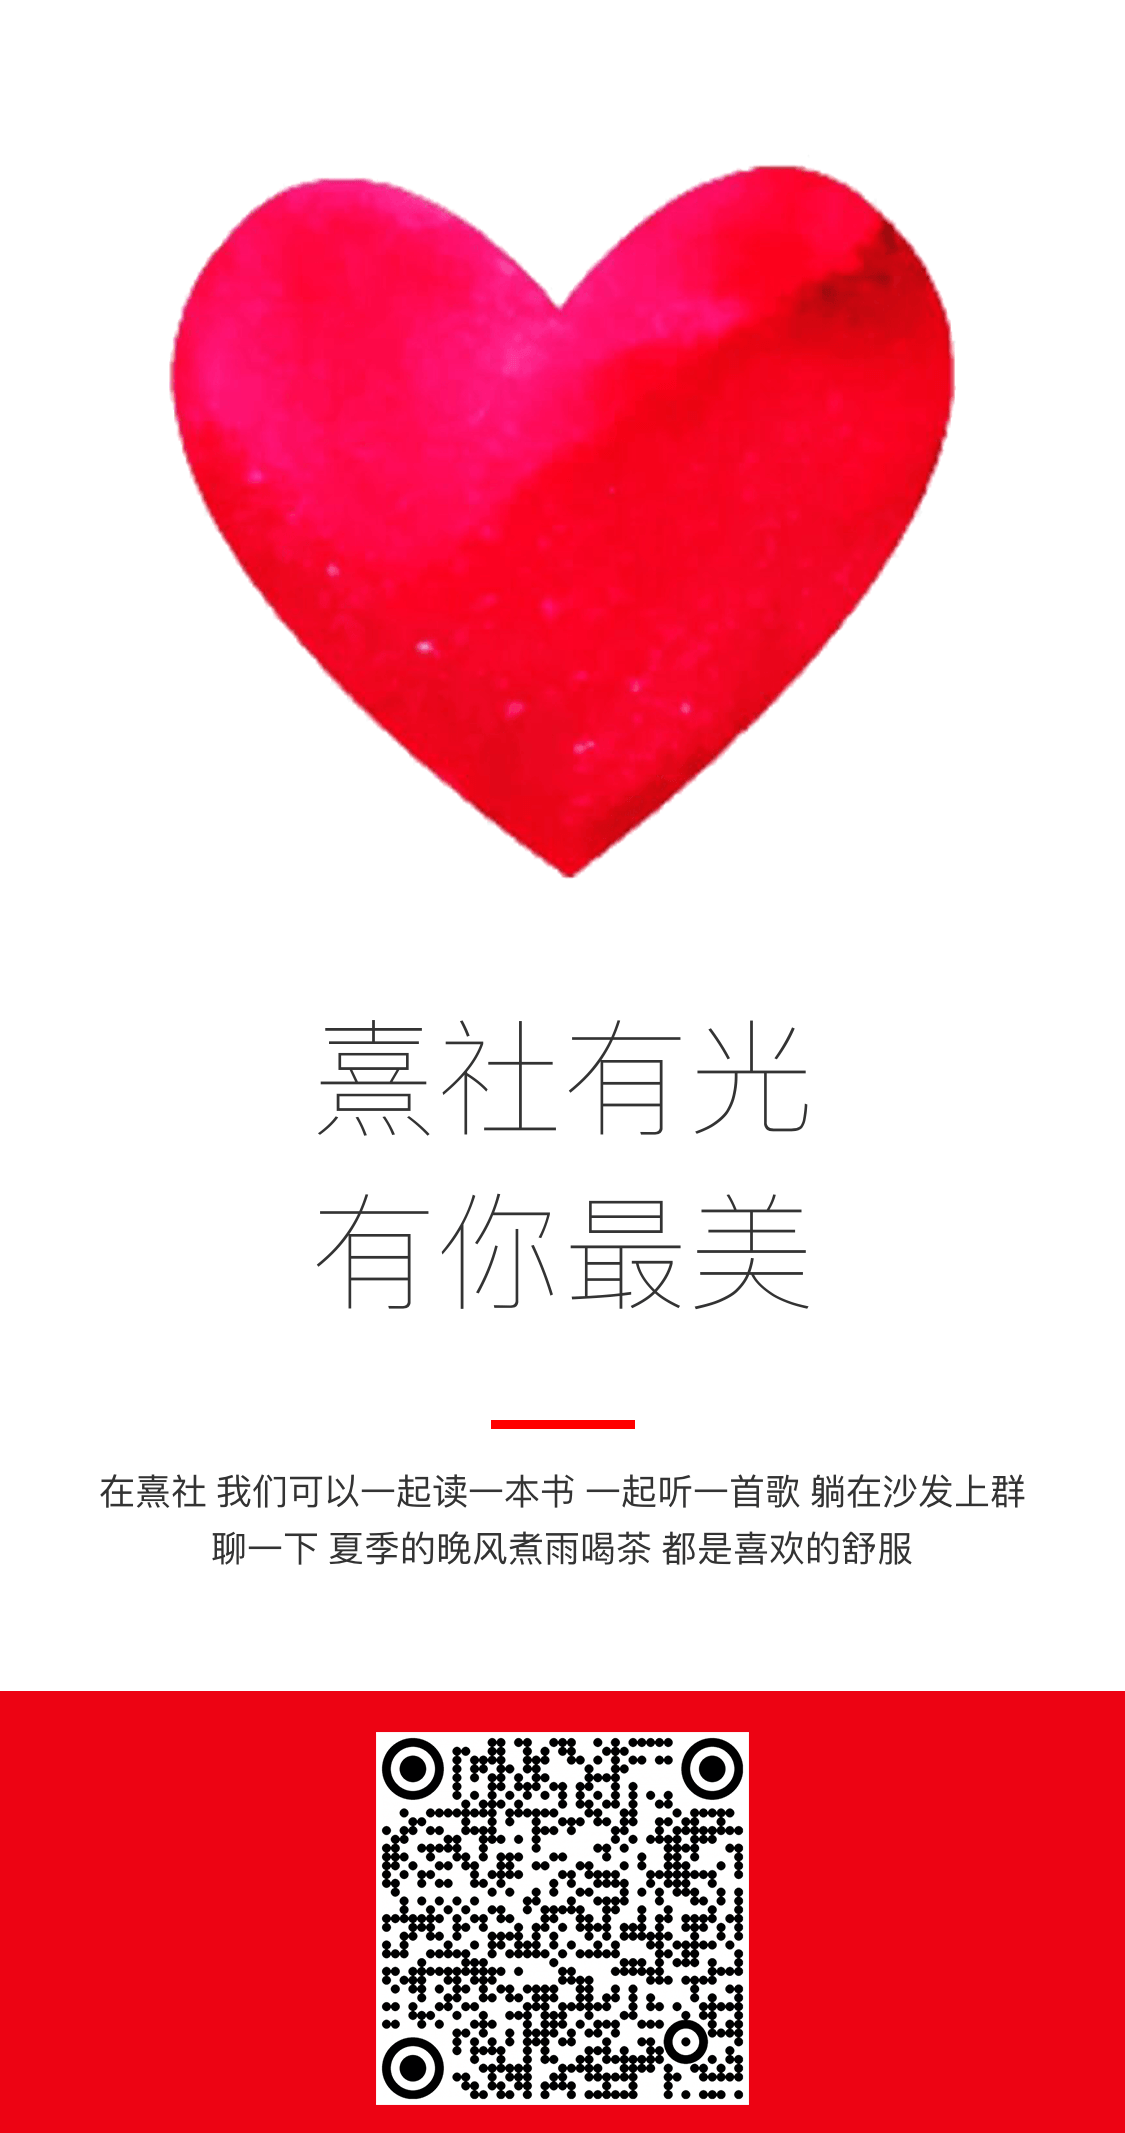
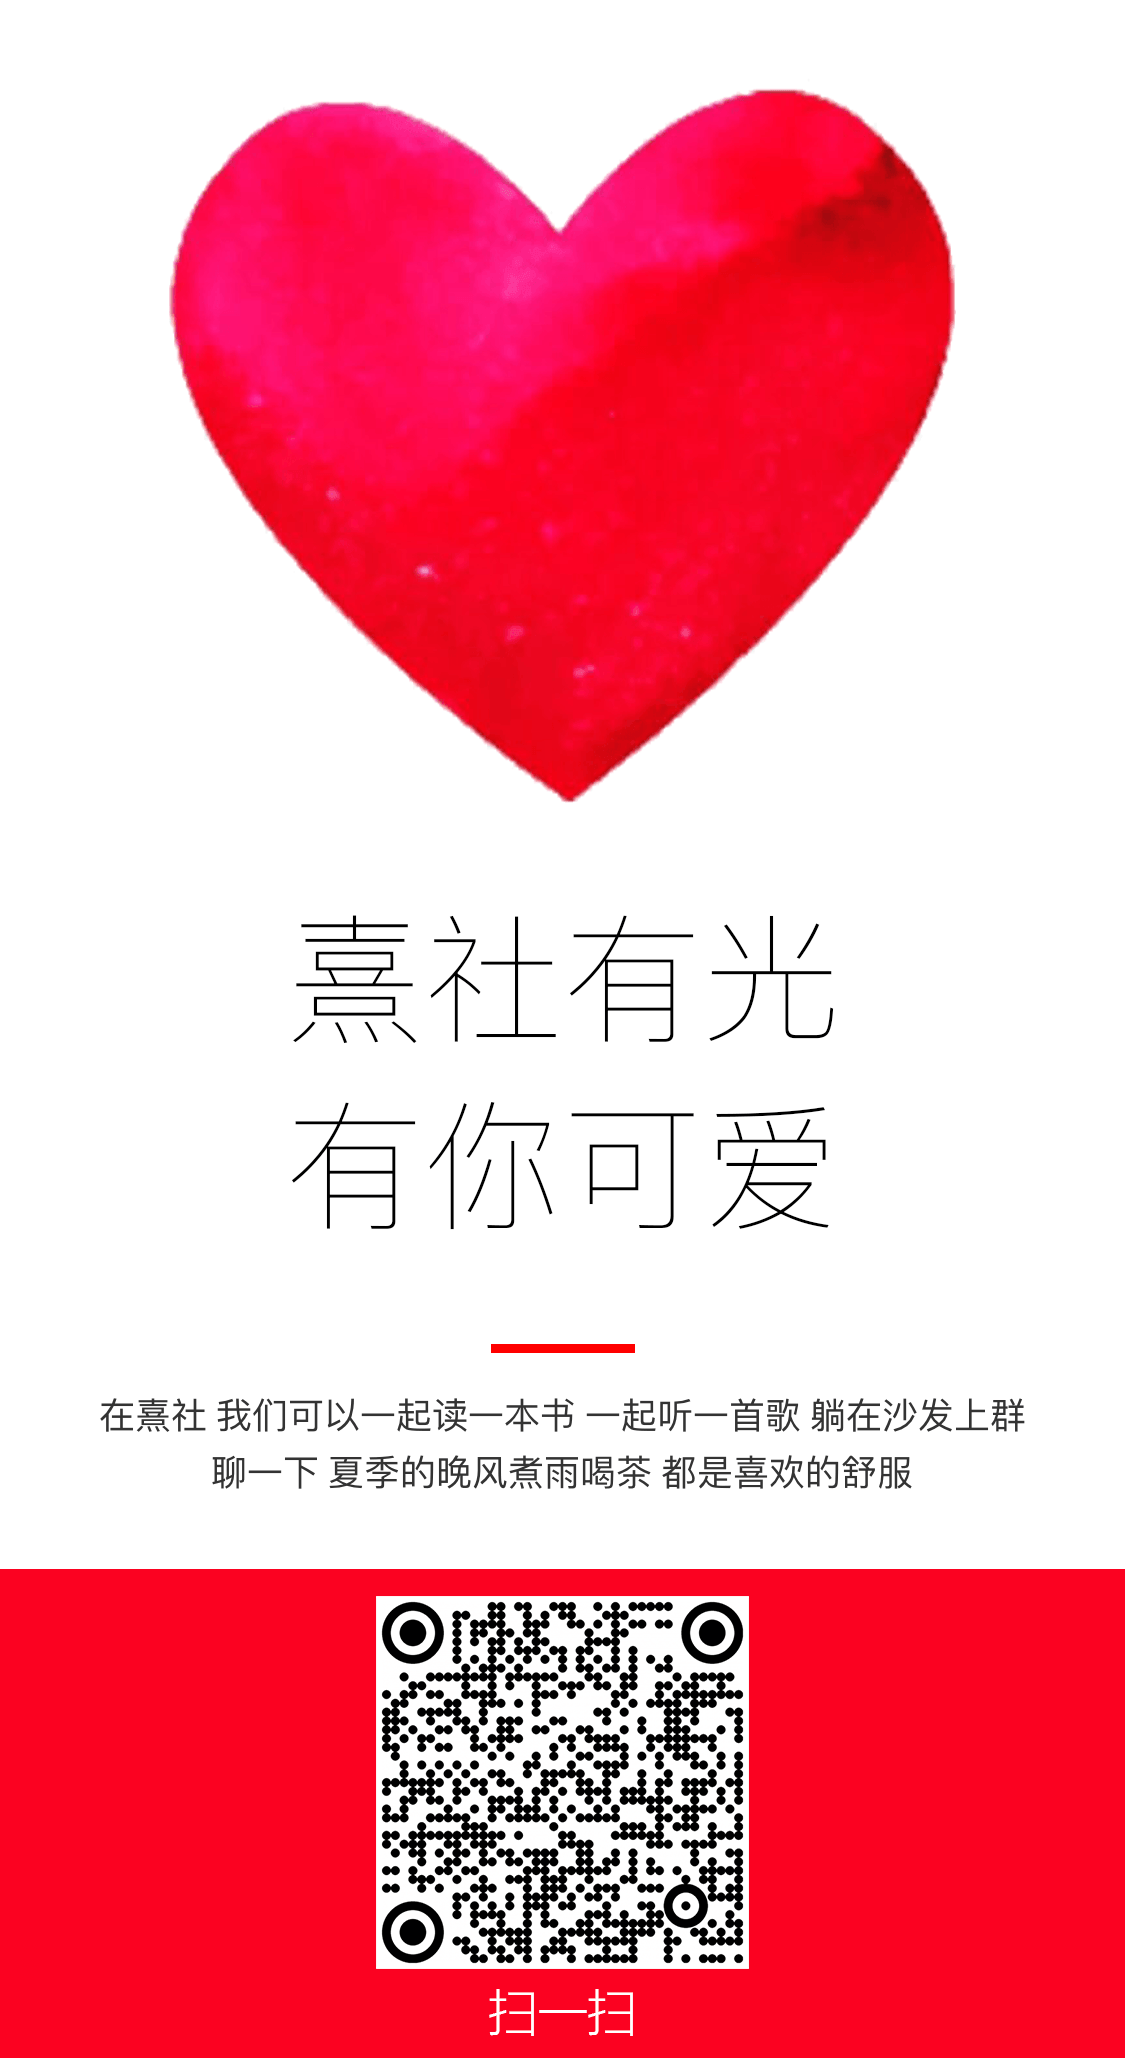
Update titles

Changed region(s): [[0.0, 0.6531, 1.0, 0.9951], [0.1244, 0.0311, 0.8711, 0.4354], [0.28, 0.4354, 0.7467, 0.622]]

diff --git a/index.html b/index.html
@@ -4,9 +4,9 @@
 <head>
     <meta charset="utf-8">
     <meta http-equiv="x-ua-compatible" content="ie=edge">
-    <title>熹社有光 有你最美</title>
-    <meta name="keywords" content="熹社有光 有你最美 锦晓楠熹">
-    <meta name="description" content="熹社有光 有你最美 锦晓楠熹">
+    <title>熹社有光 有你可爱</title>
+    <meta name="keywords" content="熹社有光 有你可爱 锦晓楠熹">
+    <meta name="description" content="熹社有光 有你可爱 锦晓楠熹">
     <meta name="viewport" content="width=device-width, initial-scale=1">
     <link rel="apple-touch-icon" href="img/hvd.svg">
     <link rel="stylesheet" href="bundle/app.css">
@@ -17,7 +17,7 @@
         <div class="section overlay">
             <img class="hvd" src="img/h.png" width="70%" alt="" id="hvd" />
             <p class="bigTile" id="title">
-                熹社有光 有你最美
+                熹社有光 有你可爱
             </p>
             <div class="subTitle">
                 在熹社 我们可以一起读一本书 一起听一首歌 躺在沙发上群聊一下 夏季的晚风煮雨喝茶 都是喜欢的舒服
@@ -94,9 +94,6 @@
         <a href="#section5">
             <div class="dot"></div>
         </a>
-        <!-- <a href="#section6">
-            <div class="dot"></div>
-        </a> -->
     </div>
     <script src="js/jq.js"></script>
     <script src="js/jquery.jplayer.min.js"></script>

diff --git a/share.html b/share.html
@@ -4,9 +4,9 @@
 <head>
     <meta charset="utf-8">
     <meta http-equiv="x-ua-compatible" content="ie=edge">
-    <title>熹社有光 有你最美</title>
-    <meta name="keywords" content="熹社有光 有你最美 锦晓楠熹">
-    <meta name="description" content="熹社有光 有你最美 锦晓楠熹">
+    <title>熹社有光 有你可爱</title>
+    <meta name="keywords" content="熹社有光 有你可爱 锦晓楠熹">
+    <meta name="description" content="熹社有光 有你可爱 锦晓楠熹">
     <meta name="viewport" content="width=device-width, initial-scale=1">
     <link rel="apple-touch-icon" href="img/hvd.svg">
     <link rel="stylesheet" href="bundle/app.css">
@@ -18,7 +18,7 @@
             <p style="text-align: center;">
                 <img src="img/share.png" width="100%">
                 <br> 微信长按保存图片分享给好友！
-                <br> 识别图中二维码访问 “熹社有光 有你最美”
+                <br> 识别图中二维码访问 “熹社有光 有你可爱”
                 <div class="hr"></div>
                 <b style="margin: 0 auto;">
                         <a href="index.html">点我返回</a>
